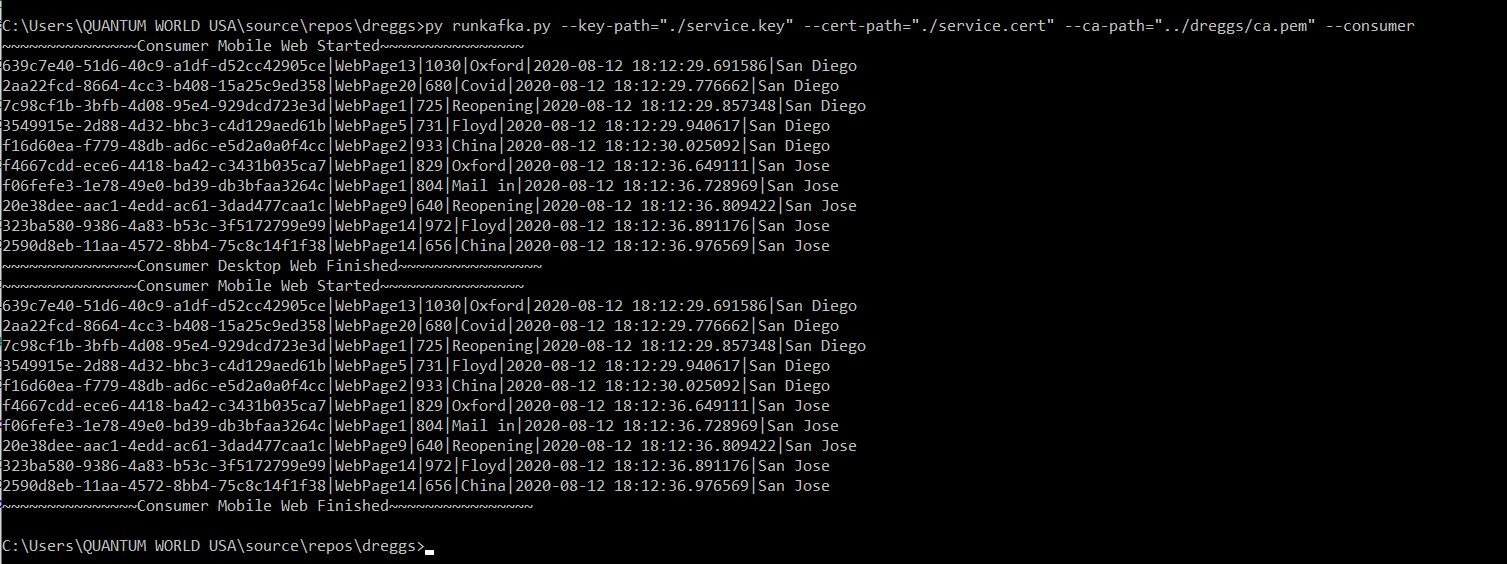
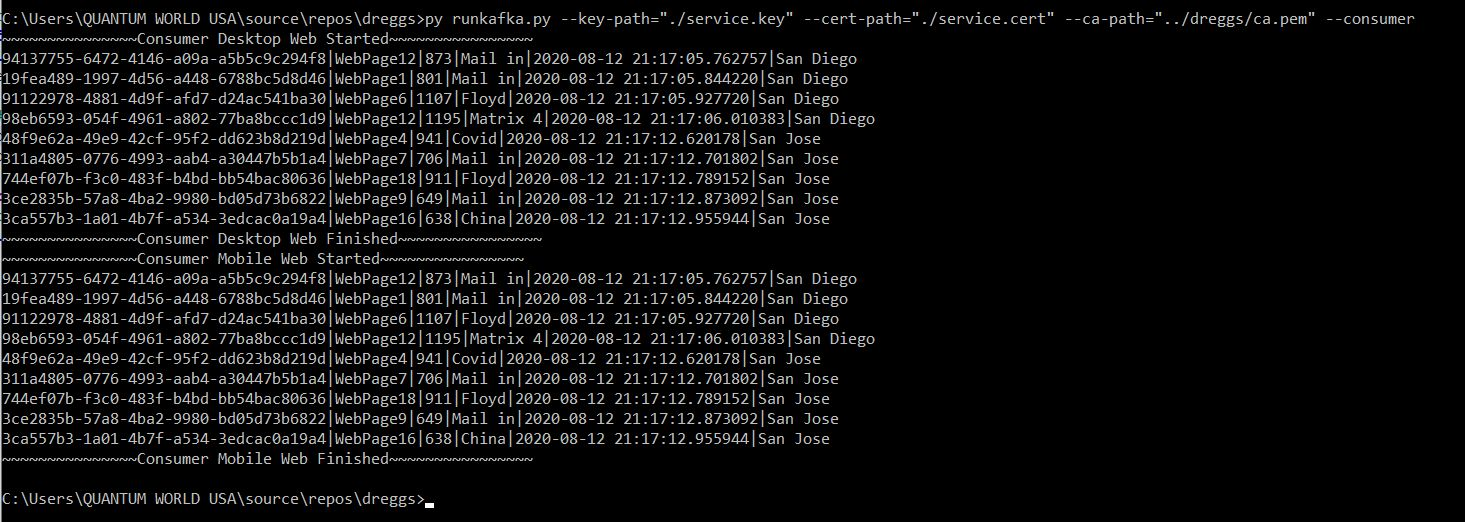
Connection Break Exception Handling
Connection Break Exception Handling

Changed region(s): [[0.0, 0.0, 0.9829, 0.9808]]

diff --git a/KapsConsumerMobile.py b/KapsConsumerMobile.py
@@ -3,6 +3,7 @@ from psycopg2.extras import RealDictCursor
 import psycopg2
 from pykafka import KafkaClient, SslConfig
 from configparser import ConfigParser
+from pykafka.exceptions import SocketDisconnectedError, LeaderNotAvailable
 
 def KapsConsumerMobile(ca_path, cert_path, key_path):
 
@@ -33,10 +34,15 @@ def KapsConsumerMobile(ca_path, cert_path, key_path):
     topictxt=configP['kafka']['topic']
     topic = client.topics[str(topictxt).encode()]  
     
-    print ("~~~~~~~~~~~~~~~Consumer Mobile Web Started~~~~~~~~~~~~~~~~");  
+    print ("~~~~~~~~~~~~~~~Consumer Mobile Web Started~~~~~~~~~~~~~~~~");
     
     #creating a simple consumer by pykafka.  
     consumer = topic.get_simple_consumer(consumer_group=b"Mobile",auto_commit_enable=True,auto_commit_interval_ms=1000,consumer_timeout_ms=1000)
+    try:
+        consumer.consume() #Try consuming. If there is a network error, retry one more time automatically.
+    except (SocketDisconnectedError) as e:
+        consumer = topic.get_simple_consumer(consumer_group=b"Mobile",auto_commit_enable=True,auto_commit_interval_ms=1000,consumer_timeout_ms=1000)
+    
     for message in consumer:
         if message is not None:
     

diff --git a/KapsProducerSanDiego.py b/KapsProducerSanDiego.py
@@ -6,6 +6,7 @@ import os
 import sys 
 from pykafka import KafkaClient, SslConfig
 from configparser import ConfigParser
+from pykafka.exceptions import SocketDisconnectedError, LeaderNotAvailable
 
 def KapsProducerSanDiego(ca_path, cert_path, key_path, runmode="standard"):
 
@@ -34,8 +35,6 @@ def KapsProducerSanDiego(ca_path, cert_path, key_path, runmode="standard"):
     topic = client.topics[str(topictxt).encode()]   
 
     print ("~~~~~~~~~~~~~~~Producer SD Started~~~~~~~~~~~~~~~~");
-
-
     #creating a synchronus producer by pykafka library.
     with topic.get_sync_producer() as producer:
          for i in range(5):
@@ -47,5 +46,9 @@ def KapsProducerSanDiego(ca_path, cert_path, key_path, runmode="standard"):
              + str("|").encode() +str(datetime.datetime.now()).encode() \
              + str("|").encode() +b'San Diego'
              print(msg)
-             producer.produce(msg)
+             try:
+                producer.produce(msg)
+             except (SocketDisconnectedError, LeaderNotAvailable) as e:
+                producer = topic.get_sync_producer()
+                producer.produce(msg)
     print ("~~~~~~~~~~~~~~~Producer SD Finished~~~~~~~~~~~~~~~~");

diff --git a/KapsConsumerWeb.py b/KapsConsumerWeb.py
@@ -3,6 +3,7 @@ from psycopg2.extras import RealDictCursor
 import psycopg2
 from pykafka import KafkaClient, SslConfig
 from configparser import ConfigParser
+from pykafka.exceptions import SocketDisconnectedError, LeaderNotAvailable
 
 def KapsConsumerWeb(ca_path, cert_path, key_path):
 
@@ -33,10 +34,15 @@ def KapsConsumerWeb(ca_path, cert_path, key_path):
     topictxt=configP['kafka']['topic']
     topic = client.topics[str(topictxt).encode()]  
     
-    print ("~~~~~~~~~~~~~~~Consumer Mobile Web Started~~~~~~~~~~~~~~~~");  
+    print ("~~~~~~~~~~~~~~~Consumer Desktop Web Started~~~~~~~~~~~~~~~~");  
     
     #creating a simple consumer by pykafka.  
     consumer = topic.get_simple_consumer(consumer_group=b"Web",auto_commit_enable=True,auto_commit_interval_ms=1000,consumer_timeout_ms=1000)
+    try:
+        consumer.consume() #Try consuming. If there is a network error, retry one more time automatically.
+    except (SocketDisconnectedError) as e:
+        consumer = topic.get_simple_consumer(consumer_group=b"Web",auto_commit_enable=True,auto_commit_interval_ms=1000,consumer_timeout_ms=1000)
+    
     for message in consumer:
         if message is not None:
 

diff --git a/KapsProducerSanJose.py b/KapsProducerSanJose.py
@@ -34,8 +34,6 @@ def KapsProducerSanJose(ca_path, cert_path, key_path, runmode="standard"):
     topic = client.topics[str(topictxt).encode()]   
 
     print ("~~~~~~~~~~~~~~~Producer SJ Started~~~~~~~~~~~~~~~~");
-
-
     #creating a synchronus producer by pykafka library.
     with topic.get_sync_producer() as producer:
          for i in range(5):
@@ -47,5 +45,9 @@ def KapsProducerSanJose(ca_path, cert_path, key_path, runmode="standard"):
              + str("|").encode() +str(datetime.datetime.now()).encode() \
              + str("|").encode() +b'San Jose'
              print(msg)
-             producer.produce(msg)
+             try:
+                producer.produce(msg)
+             except (SocketDisconnectedError, LeaderNotAvailable) as e:
+                producer = topic.get_sync_producer()
+                producer.produce(msg)
     print ("~~~~~~~~~~~~~~~Producer SJ Finished~~~~~~~~~~~~~~~~");
